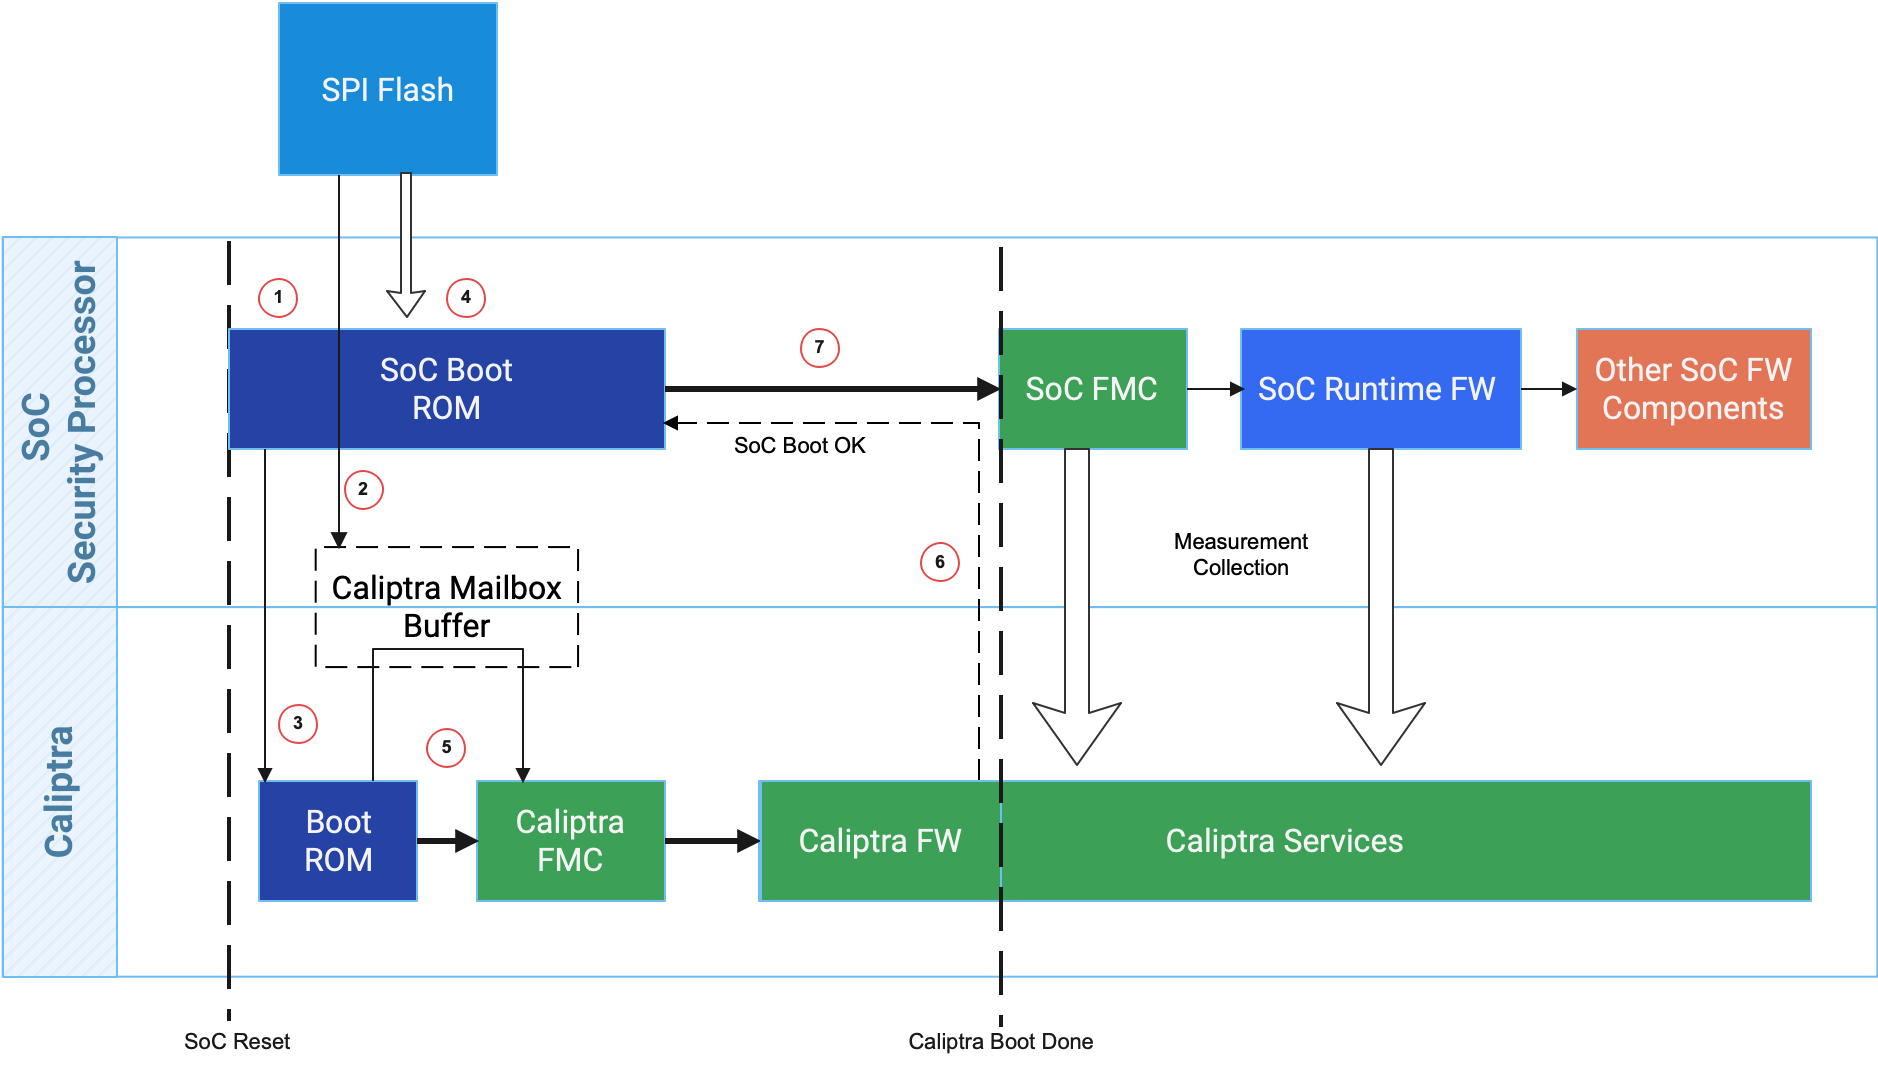
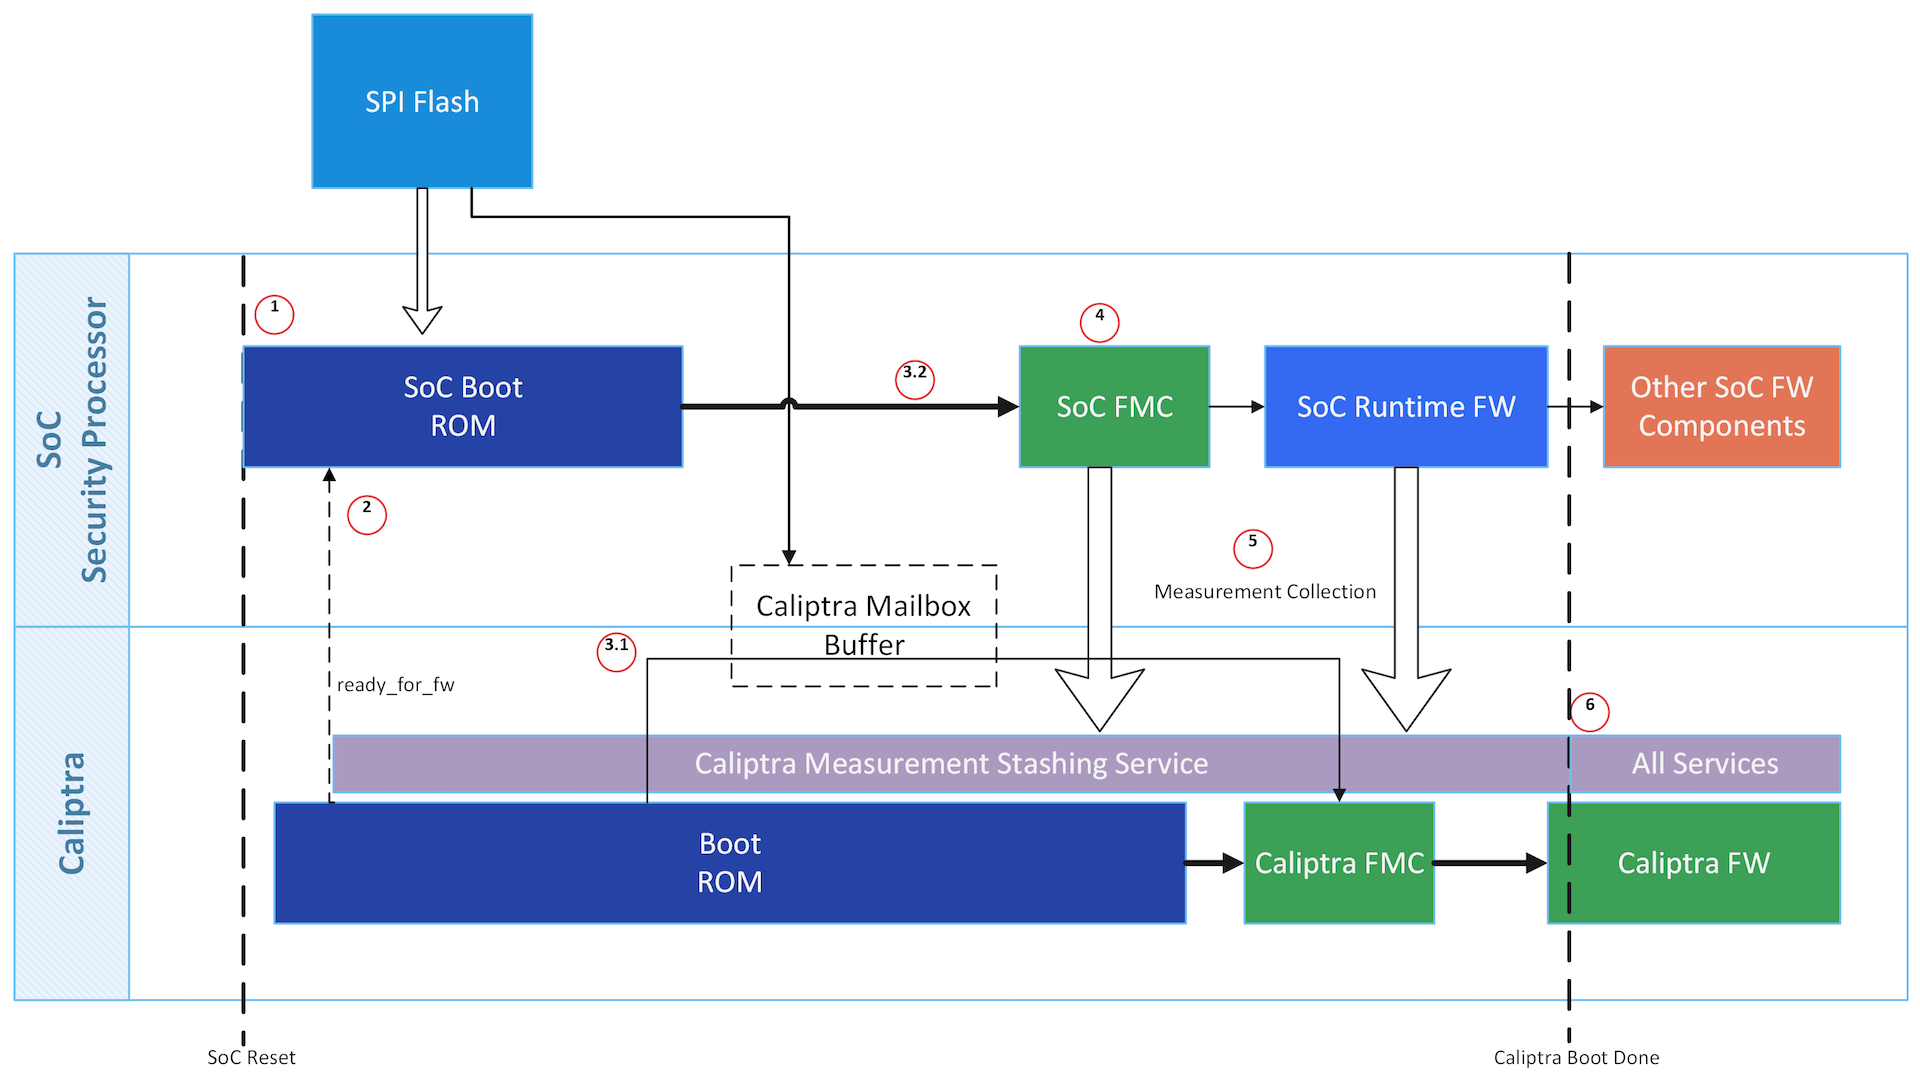
Update the BMI and BMD boot sequences (#44)
* Update the BMI and BMD boot sequences

Add clarity and support for delayed Caliptra firmware boot in the BMD profile (thanks to https://github.com/chipsalliance/caliptra-sw/issues/100)

* Update Caliptra.md

* Update Caliptra.md

Fix a merge mistake

* Update BMD_Boot_flow.png

Updated sequence to match spec update

diff --git a/doc/Caliptra.md b/doc/Caliptra.md
@@ -514,57 +514,50 @@ See [HW Section](#hardware-section) for a detailed discussion.
 
 ## Caliptra Profiles
 
-Caliptra supports two physical modes of instantiation, the Caliptra Core and the Caliptra Subsystem.  Within Caliptra Core there are two modes of integration with different security postures and firmware loading techniques.  The first is Boot Media Integrated Profile where Caliptra loads its firmware directly from persistent storage (eg. FLASH memory) while in Boot Media Dependent Profile Caliptra firmware is pushed into mailbox SRAM buffer by the SoC immutable code (HW or ROM) that controls the persistent storage of the firmware code.
+Caliptra supports two physical modes of instantiation, the Caliptra Core and the Caliptra Subsystem.  Within Caliptra Core there are two modes of integration with different security postures and firmware loading techniques.
+
+1. Boot Media Integrated (BMI) Profile (formerly Active Profile): Caliptra loads its firmware directly from SPI boot media. SoC boot cannot proceed through any other boot media.
+2. Boot Media Dependent (BMD) Profile (formerly Passive Profile): Caliptra receives its firmware from SoC actors with access to the boot media.
+
+In both Profiles, Caliptra is among the first uncore microcontrollers taken out of reset by the power-on reset logic. The difference is in the TCB for integrity of the Core Root of Trust for Measurement. In the BMI Profile, this TCB is the Caliptra Core. In the BMD Profile, this TCB additionally includes the immutable element of the SoC ROM. The BMD Profile trades increased TCB for lower integration cost. BMD Profile does not put Caliptra firmware in the performance-critical or recovery-critical code paths of the SoC boot process.
+
+Caliptra 1.0 will only support the BMD Profile.
 
 ### <a id="bmi"></a>Caliptra Core - Boot Media Integrated (BMI)
+In the Boot Media Integrated Profile, Caliptra unilaterally starts the firmware chain-of-trust. The boot process is as follows:
 
-When Caliptra is integrated into an SoC in Boot Media Integrated mode, Caliptra RTM is the first uncore microcontroller taken out of reset with direct access to persistent storage. The flow for boot is as follows:
-
-	1. Hardware executes SoC power-on reset logic.
-	2. Caliptra ROM executes first and performs cryptographic identity generation, reads in Caliptra firmware from persistent storage.
-	3. Caliptra ROM measures and verifies its firmware before loading/executing it. Refer to [Error Reporting and Handling](#error-reporting-and-handling) for details regarding FMC verification failures.
-	4. After loading, verifying and executing its firmware, Caliptra copies the SoC First Mutable Code (FMC) into an SoC internal SRAM mailbox buffer and measures that firmware.
-	5. At this point, Caliptra may signal to SoC ROM and SoC uncore to continue power-on reset as shown in Figure 1.
+1. Hardware executes SoC power-on reset logic. This logic starts the execution of Caliptra ROM.
+2. Caliptra ROM fetches the Caliptra firmware from SPI boot media.
+3. Caliptra ROM authenticates/measures/loads/executes Caliptra firmware. Refer to [Error Reporting and Handling](#error-reporting-and-handling) for details regarding FMC verification failures.
+4. Caliptra firmware copies the SoC First Mutable Code (FMC) into the Caliptra mailbox and measures it.
+5. Caliptra firmware signals to SoC ROM to continue the boot process by fetching the firmware from Caliptra's mailbox.
+6. SoC FMC continues the boot process, forming a boot firmware chain-of-trust: each firmware fetches/authenticates/measures/executes the next firmware needed to establish the device operating environment. Each firmware deposits the next firmware's measurements into Caliptra prior to execution.
+7. Caliptra firmware presents attestation APIs using the deposited measurements.
 
 *Figure 3: Boot Media Integrated Boot Flow*
 
-![](BMI_Boot_flow.png)
-
-In the Boot Media Integrated profile, the Caliptra Trusted Computing Base (TCB) for integrity of Core Root of Trust measurement is the Caliptra Core.  The verification of measurement includes:
-
-	1. The SoC design ingests firmware through Caliptra
-	2. Caliptra IP, Caliptra ROM, and Caliptra Firmware
+![](./images/BMI_Boot_flow.png)
 
 ### <a id="bmd"></a>Caliptra Core - Boot Media Dependent (BMD)
+In the Boot Media Dependent Profile, Caliptra coordinates the start of the firmware chain-of-trust with the immutable component of the SoC ROM. Once the Caliptra ROM has completed initialization, it provides a "stash measurement" API and callback signals for the SoC ROM to proceed with the boot process. Caliptra ROM supports stashing of at most eight measurements prior to the boot of Caliptra firmware. The SoC then may choose to boot Caliptra firmware. Any security-sensitive code or configuration loaded by the SoC prior to Caliptra firmware boot must be stashed within Caliptra. If the SoC exceeds Caliptra ROM's measurement stash capacity, attestation must be disabled until next cold reset. The boot process is as follows:
 
-To facilitate ease of integration and reliable measurement, the Caliptra RTM is the first uncore controller to be taken out of reset by the SoC ROM.  Once loaded, it provides callback signals for the remaining SoC subsystem to resume normal reset flow.
-
-All firmware that is loaded from an outside entity (and subsequently executed on the microprocessor) shall be considered untrusted; this firmware's measurements shall be reported to the Caliptra RTM before it is allowed to run within the SoC. Caliptra provides a HW API where the hash calculation, FW authentication and measurement capture is performed by Caliptra itself vs just reporting the measurements.
-
-In the BMD profile, the Caliptra trusted computing base (TCB) for integrity of Core Root of Trust measurement is the Caliptra Core and SoC ROM.  The verification of measurement mechanism includes:
-
-	1. Hardware executes SoC power-on reset logic.
-	2. SoC ROM executes, reads Caliptra firmware into Mailbox SRAM buffer.
-	3. SoC ROM signals Caliptra for its ROM to execute
-	4. SoC ROM pauses and waits for a signal (resume) from Caliptra
-	5. Caliptra ROM cryptographically authenticates its FW, measures and (if valid) executes its FW and then derives cryptographic identities
-	6. Caliptra signals back to SoC to resume reset.
-	7. SoC reads in its firmware, cryptographically authenticates its FW and provides measurements to Caliptra before executing.
+1. Hardware executes SoC power-on reset logic. This logic starts the execution of SoC ROM and Caliptra ROM.
+2. SoC ROM waits for the ready_for_fw signal from Caliptra ROM.
+3. SoC ROM fetches the First Mutable Code.
+    1. If the FMC is Caliptra firmware:
+        1. SoC ROM loads the Caliptra firmware into the Caliptra mailbox and issues the Caliptra "firmware load" command.
+        2. Caliptra ROM authenticates/measures/starts the Caliptra firmware.
+    3. If the FMC is not Caliptra firmware:
+        1. SoC ROM authenticates and measures that firmware as the SoC FMC, and issues the Caliptra "stash measurement" command prior to executing SoC FMC.
+4. SoC ROM executes SoC FMC.
+5. As in #6 from the BMI flow, SoC FMC continues the boot process, forming a boot firmware chain-of-trust: each firmware fetches/authenticates/measures/executes the next firmware needed to establish the device operating environment. Each firmware deposits the next firmware's measurements into Caliptra prior to execution. The exception is Caliptra's firmware: SoC firmware shall delegate the measurement and execution of Caliptra's firmware to Caliptra ROM.
+6. Upon eventual initialization, Caliptra firmware presents attestation APIs using the deposited measurements.
 
 Refer to [Error Reporting and Handling](#error-reporting-and-handling) for details regarding Caliptra and SoC firmware load and verification error handling.
 
 *Figure 4: Boot Media Dependent Boot Flow*
 
 ![](./images/BMD_Boot_flow.png)
-
-The Boot Media Dependent profile is less intrusive to integrations, but extends the TCB for Caliptra to include SoC ROM.  The verification of measurement mechanism integration includes:
-
-	1. The SoC design that executes SoC power-on reset logic.
-	2. SoC ROM, SoC boot controller
-	3. Caliptra IP, Caliptra ROM, and Caliptra Firmware.
-	4. SoC first mutable code.
-
-The trusted computing base for the SoC is larger in Boot Media Dependent, but simplifies integration while preserving many of the Caliptra security guarantees.
 
 ## Caliptra Security Subsystem
 
